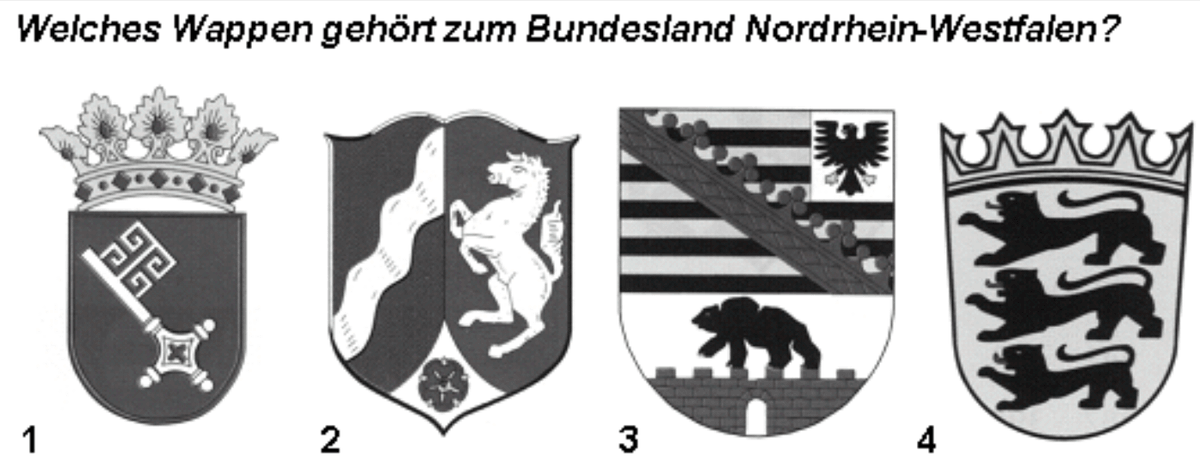
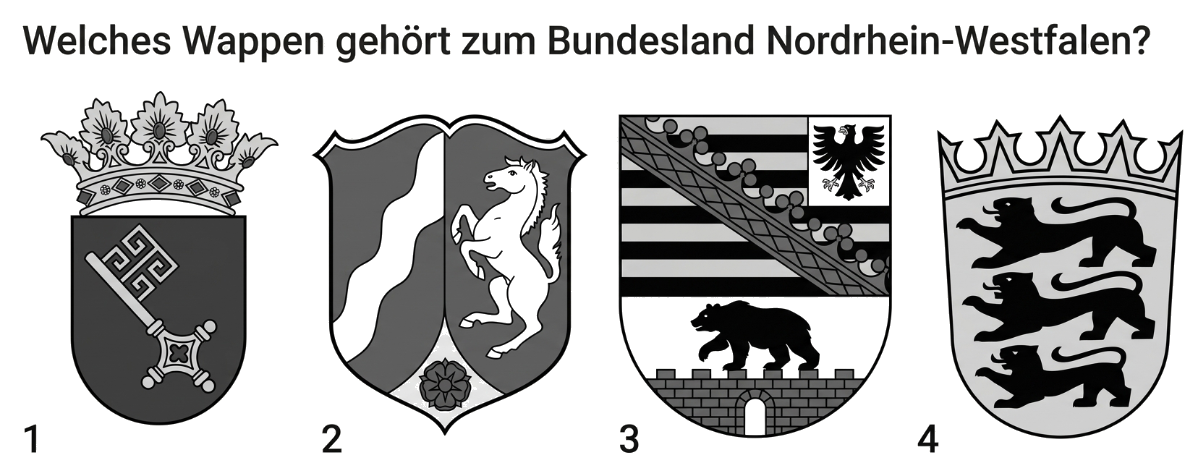
Replace remaining state coat-of-arms images

diff --git a/README.md b/README.md
@@ -38,7 +38,7 @@ No web server is required; `data/questions.js`, `data/vocabulary.js` and `data/i
[1 lines of base64/hex data omitted]
   <https://www.bamf.de/SharedDocs/Anlagen/DE/Integration/Einbuergerung/gesamtfragenkatalog-lebenindeutschland.html?nn=284310>
 - **Answers, English translations, explanations and images**: [abdullahbutt/leben-in-deutschland-test](https://github.com/abdullahbutt/leben-in-deutschland-test), version 2026-10-28. **The German question and option wording is taken verbatim from the official BAMF PDF**; the dataset supplies the answer key, English translations, explanations and images. The translations and explanations are licensed under **CC BY-NC 4.0** (attribution, non-commercial use). `data/overrides.json` contains manual corrections for the few items where the dataset described a different paraphrase (e.g. B232, B247, HB02, SN07).
-- **Redrawn images**: `data/images/21.png`, `data/images/55.png`, `data/images/70.png`, `data/images/130.png`, `data/images/176.png`, `data/images/181.png`, `data/images/187.png`, `data/images/209.png`, `data/images/216.png`, `data/images/226.png`, `data/images/235.png`, `data/images/301-baden-wuerttemberg.png`, `data/images/301-bayern.png`, `data/images/301-berlin.png`, `data/images/301-brandenburg.png`, `data/images/301-bremen.png`, `data/images/301-hamburg.png` and `data/images/301-hessen.png` are redrawn replacements added for this project; the remaining images come from the dataset.
+- **Redrawn images**: all 16 state coat-of-arms images under `data/images/301-*.png`, plus `data/images/21.png`, `data/images/55.png`, `data/images/70.png`, `data/images/130.png`, `data/images/176.png`, `data/images/181.png`, `data/images/187.png`, `data/images/209.png`, `data/images/216.png`, `data/images/226.png` and `data/images/235.png`, are redrawn replacements added for this project; the remaining images come from the dataset.
 - **BB01 answer correction**: the official BAMF page shows the Brandenburg eagle as **Bild 1**; `data/overrides.json` pins `correct: 0`, overriding the dataset's incorrect Bild 4 mapping.
 - This is an independent learning app, not an official BAMF product. Use is intended for personal, non-commercial exam preparation.
 
